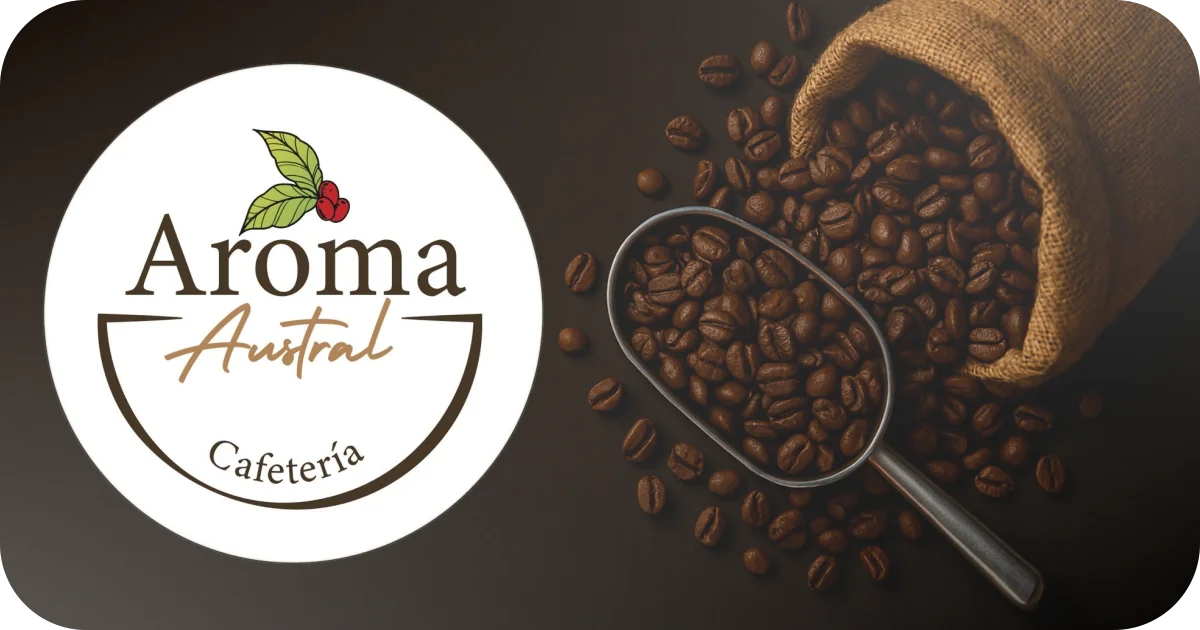
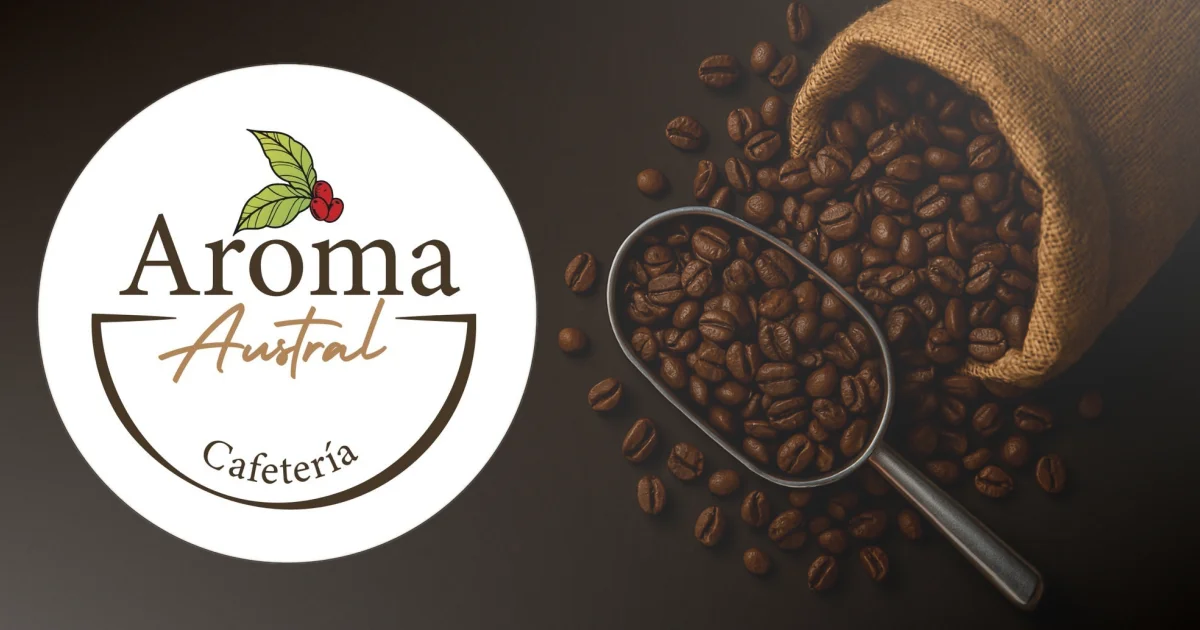
Cambios en la descripción del SEO para index.html y menu.html. Se adapta la imagen de prueba de Open Graph para evitar bordes redondeados sin transparencia.

diff --git a/index.html b/index.html
@@ -3,16 +3,19 @@
 
 <head>
     <meta charset="UTF-8">
+    <meta name="viewport" content="width=device-width, initial-scale=1.0">
+
+    <!-- SEO -->
     <meta name="description"
         content="Aroma Austral es una cafetería ubicada en Villa Amengual, Aysén, Patagonia Chilena. Ofrece café de especialidad, dulces y comida artesanal para turistas y amantes del café.">
-    <meta name="viewport" content="width=device-width, initial-scale=1.0">
     <meta name="author" content="Aroma Austral Café">
     <meta name="keywords"
-        content="Cafetería, Patagonia, Patagonia Chilena, Aroma Austral, Villa Amengual, Lago Verde, Aysén, Chile, café de especialidad, dulces, comida artesanal">
+        content="Cafetería, Patagonia, Patagonia Chilena, Aroma Austral, Villa Amengual, Lago Verde, Aysén, Región de Aysén, Chile, café de especialidad, dulces, comida artesanal">
+
     <!-- Open Graph para redes sociales -->
-    <meta property="og:title" content="Aroma Austral - Café de especialidad en Aysén">
+    <meta property="og:title" content="Aroma Austral - Café de especialidad en Villa Amengual, Aysén">
     <meta property="og:description"
-        content="Cafetería en Villa Amengual, Lago Verde, Región de Aysén, con café de especialidad, dulces y preparaciones artesanales.">
+        content="Cafetería de especialidad en Villa Amengual, Lago Verde - Aysén, con dulces y preparaciones artesanales.">
     <meta property="og:image" content="https://nicolas-lastra.github.io/cafeteria-website/img/og-aroma-austral.webp">
     <meta property="og:url" content="https://nicolas-lastra.github.io/cafeteria-website/">
     <meta name="twitter:card" content="summary_large_image">
@@ -87,7 +90,7 @@
 
         <p>En nuestro menú puedes encontrar café de especialidad, tartas, selladitos y más. <a
                 class="text-decoration-underline text-light" href="pages/menu.html">Explora nuestro menú de cafés y
-                especialidades</a>.
+                especialidades locales</a>.
         </p>
 
     </main>

diff --git a/pages/menu.html b/pages/menu.html
@@ -6,7 +6,7 @@
 
     <!-- SEO -->
     <meta name="description" content="Explora el menú de Aroma Austral: cafés, tartas, preparaciones frías, dulces y opciones sin café. Una experiencia única en Villa Amengual, Aysén.">
-    <meta name="keywords" content="menú, café, tartas, preparaciones frías, dulces, sin café, Aroma Austral, Villa Amengual, Aysén">
+    <meta name="keywords" content="menú, café, tartas, preparaciones frías, dulces, sin café, Aroma Austral, Villa Amengual, Patagonia, Patagonia Chilena, Región de Aysén, Aysén">
     <meta name="author" content="Aroma Austral Café">
 
     <meta name="viewport" content="width=device-width, initial-scale=1.0">
